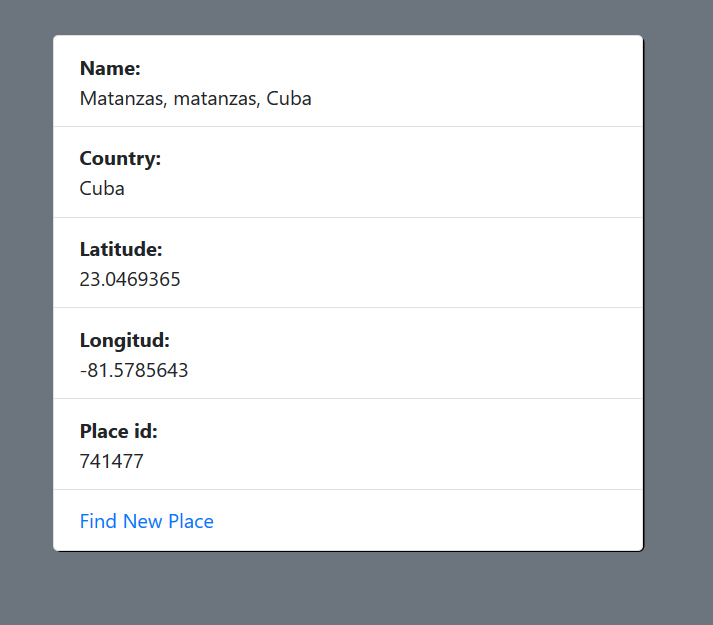
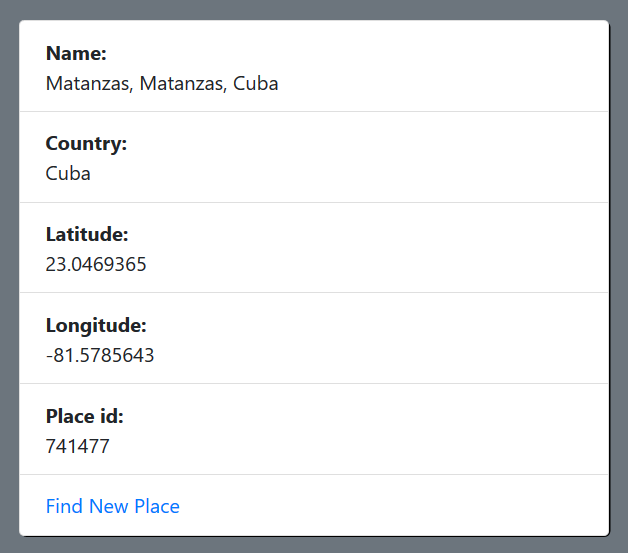
updating details image

Changed region(s): [[0.0303, 0.0307, 0.9984, 0.9837]]

diff --git a/src/main/resources/templates/details.html b/src/main/resources/templates/details.html
@@ -21,7 +21,7 @@
 			    <b>Latitude:</b><p class="my-auto" th:text="${location.latitude}" />
 			    </li>
 			    <li class="list-group-item">
-			    <b>Longitud:</b><p class="my-auto" th:text="${location.longitud}" />
+			    <b>Longitude:</b><p class="my-auto" th:text="${location.longitud}" />
 			    </li>
 			    <li class="list-group-item">
 			    <b>Place id:</b><p class="my-auto" th:text="${location.place_id}" />

diff --git a/target/classes/templates/details.html b/target/classes/templates/details.html
@@ -21,7 +21,7 @@
 			    <b>Latitude:</b><p class="my-auto" th:text="${location.latitude}" />
 			    </li>
 			    <li class="list-group-item">
-			    <b>Longitud:</b><p class="my-auto" th:text="${location.longitud}" />
+			    <b>Longitude:</b><p class="my-auto" th:text="${location.longitud}" />
 			    </li>
 			    <li class="list-group-item">
 			    <b>Place id:</b><p class="my-auto" th:text="${location.place_id}" />
